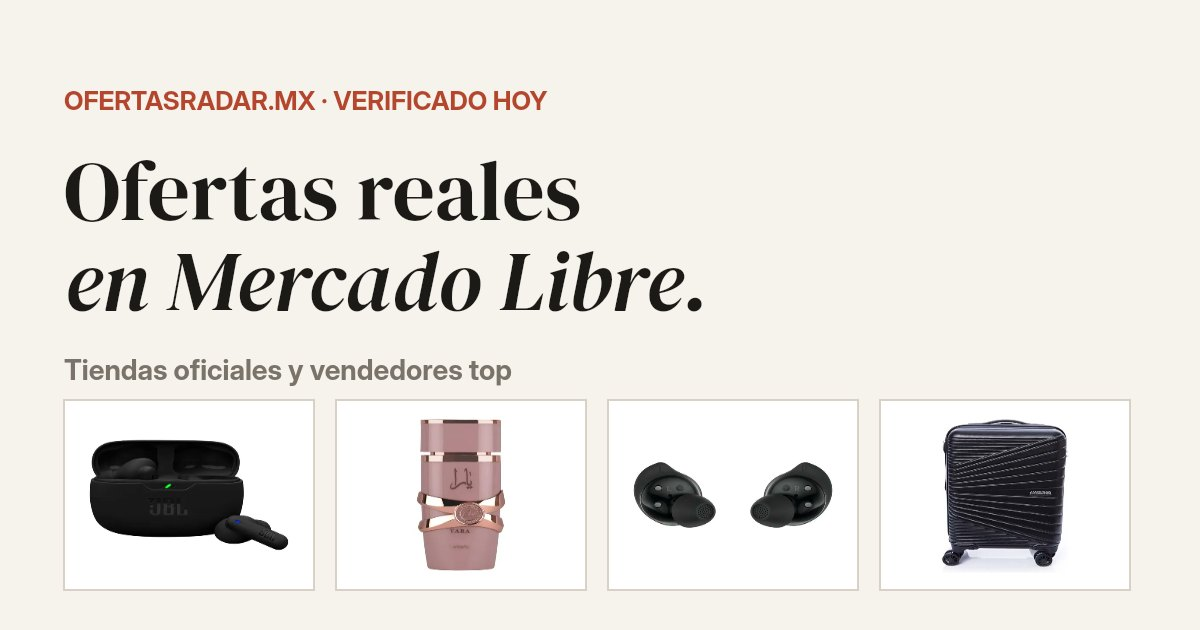
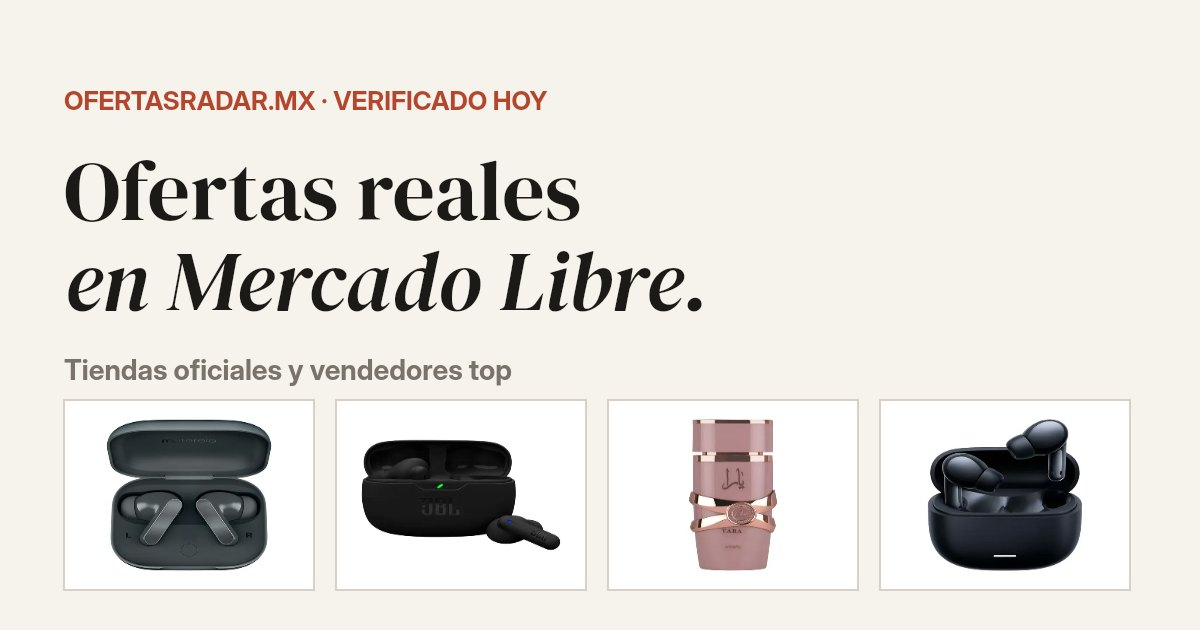
Ofertas al 29 oct 2026 (69 ofertas)

diff --git a/index.html b/index.html
@@ -6,7 +6,7 @@
 <title>Ofertas Radar MX · ofertas verificadas en Mercado Libre</title>
 <meta name="description" content="Ofertas reales de Mercado Libre, verificadas el 29 oct 2026: tiendas oficiales y vendedores top en belleza, hogar y tech.">
 <meta property="og:title" content="Ofertas Radar MX · ofertas verificadas en Mercado Libre">
-<meta property="og:description" content="Ofertas de Mercado Libre verificadas el 29 oct 2026. Hasta -66%.">
+<meta property="og:description" content="Ofertas de Mercado Libre verificadas el 29 oct 2026. Hasta -69%.">
 <meta property="og:image" content="https://fabiannabi.github.io/ofertasradar/og.jpg">
 <meta property="og:url" content="https://fabiannabi.github.io/ofertasradar/">
 <meta property="og:type" content="website">
@@ -153,13 +153,13 @@ footer a { font-weight: 700; color: var(--tinta); }
   <div class="hero">
     <div>
       <p class="vivo"><i></i>Verificado el 29 oct 2026</p>
-      <h1><span class="hasta">Hasta</span><span class="num">-66<small>%</small></span>en marcas que <em>ya conoces.</em></h1>
+      <h1><span class="hasta">Hasta</span><span class="num">-69<small>%</small></span>en marcas que <em>ya conoces.</em></h1>
       <p class="sub">Ofertas de Mercado Libre revisadas a mano, de tiendas oficiales y vendedores top.</p>
       <ul class="garantias"><li>Tiendas oficiales</li><li>Precio del día</li><li>Compra protegida de Mercado Libre</li></ul>
       <a class="ver" href="#megas">Ver las ofertas ↓</a>
     </div>
     <div class="radar"><button type="button" class="blip" style="left:72%;top:26%" aria-label="Ver una oferta al azar"></button><button type="button" class="blip b2" style="left:24%;top:64%" aria-label="Ver una oferta al azar"></button><button type="button" class="blip b3" style="left:80%;top:70%" aria-label="Ver una oferta al azar"></button><button type="button" class="blip b4" style="left:34%;top:20%" aria-label="Ver una oferta al azar"></button><p class="pista">Toca un punto: oferta al azar</p><div class="centro" aria-hidden="true"><img src="logo.png" alt="" width="192" height="192"></div></div>
-    <div class="cinta" aria-hidden="true"><div><span>Guess</span><span>Casio</span><span>Fossil</span><span>Ray-Ban</span><span>Samsonite</span><span>American Tourister</span><span>Motorola</span><span>Ninja</span><span>Dior</span><span>Carolina Herrera</span><span>Rabanne</span><span>Jean Paul Gaultier</span><span>Dolce &amp; Gabbana</span><span>Lattafa</span><span>Sony</span><span>Samsung</span><span>JBL</span><span>Soundcore</span><span>Huawei</span><span>Amazfit</span><span>KitchenAid</span><span>Shark</span><span>BaBylissPRO</span><span>Remington</span><span>Conair</span><span>Revlon</span><span>Homedics</span><span>Xiaomi</span><span>CIICII</span><span>Eufy</span><span>Oral-B</span><span>Dove</span><span>Jane Austen</span><span>Alianza</span><span>EMU</span><span>Debolsillo</span><span>Beauty Creations</span><span>Orión</span><span>Guess</span><span>Casio</span><span>Fossil</span><span>Ray-Ban</span><span>Samsonite</span><span>American Tourister</span><span>Motorola</span><span>Ninja</span><span>Dior</span><span>Carolina Herrera</span><span>Rabanne</span><span>Jean Paul Gaultier</span><span>Dolce &amp; Gabbana</span><span>Lattafa</span><span>Sony</span><span>Samsung</span><span>JBL</span><span>Soundcore</span><span>Huawei</span><span>Amazfit</span><span>KitchenAid</span><span>Shark</span><span>BaBylissPRO</span><span>Remington</span><span>Conair</span><span>Revlon</span><span>Homedics</span><span>Xiaomi</span><span>CIICII</span><span>Eufy</span><span>Oral-B</span><span>Dove</span><span>Jane Austen</span><span>Alianza</span><span>EMU</span><span>Debolsillo</span><span>Beauty Creations</span><span>Orión</span></div></div>
+    <div class="cinta" aria-hidden="true"><div><span>Guess</span><span>Casio</span><span>Fossil</span><span>Ray-Ban</span><span>Samsonite</span><span>American Tourister</span><span>Motorola</span><span>Ninja</span><span>JBL</span><span>Nothing</span><span>Xiaomi</span><span>Sony</span><span>Dior</span><span>Carolina Herrera</span><span>Rabanne</span><span>Jean Paul Gaultier</span><span>Dolce &amp; Gabbana</span><span>Lattafa</span><span>Samsung</span><span>Soundcore</span><span>Huawei</span><span>Amazfit</span><span>KitchenAid</span><span>Shark</span><span>BaBylissPRO</span><span>Remington</span><span>Conair</span><span>Revlon</span><span>Homedics</span><span>CIICII</span><span>Eufy</span><span>Oral-B</span><span>Dove</span><span>Jane Austen</span><span>Alianza</span><span>EMU</span><span>Debolsillo</span><span>Beauty Creations</span><span>Orión</span><span>Guess</span><span>Casio</span><span>Fossil</span><span>Ray-Ban</span><span>Samsonite</span><span>American Tourister</span><span>Motorola</span><span>Ninja</span><span>JBL</span><span>Nothing</span><span>Xiaomi</span><span>Sony</span><span>Dior</span><span>Carolina Herrera</span><span>Rabanne</span><span>Jean Paul Gaultier</span><span>Dolce &amp; Gabbana</span><span>Lattafa</span><span>Samsung</span><span>Soundcore</span><span>Huawei</span><span>Amazfit</span><span>KitchenAid</span><span>Shark</span><span>BaBylissPRO</span><span>Remington</span><span>Conair</span><span>Revlon</span><span>Homedics</span><span>CIICII</span><span>Eufy</span><span>Oral-B</span><span>Dove</span><span>Jane Austen</span><span>Alianza</span><span>EMU</span><span>Debolsillo</span><span>Beauty Creations</span><span>Orión</span></div></div>
   </div>
   <a class="canal" href="https://whatsapp.com/channel/0029VbDg7woLtOjGkAVMZi3C" target="_blank" rel="noopener">
     <svg viewBox="0 0 32 32" aria-hidden="true"><circle cx="16" cy="16" r="16" fill="#25D366"/><path fill="#fff" d="M16 7.2a8.7 8.7 0 0 0-7.5 13.2L7.3 25l4.7-1.2A8.7 8.7 0 1 0 16 7.2Zm0 15.9c-1.3 0-2.6-.4-3.7-1l-.3-.2-2.8.7.8-2.7-.2-.3a7.2 7.2 0 1 1 6.2 3.5Zm4-5.4c-.2-.1-1.3-.6-1.5-.7-.2-.1-.3-.1-.5.1l-.7.9c-.1.1-.3.2-.5.1a5.9 5.9 0 0 1-2.9-2.6c-.2-.4.2-.4.6-1.2.1-.1 0-.3 0-.4l-.7-1.6c-.2-.4-.4-.4-.5-.4h-.4a.8.8 0 0 0-.6.3 2.5 2.5 0 0 0-.8 1.9c0 1.1.8 2.2.9 2.3.1.2 1.6 2.4 3.9 3.4 1.4.6 2 .7 2.7.6.4-.1 1.3-.5 1.5-1.1.2-.5.2-1 .1-1.1l-.4-.2Z"/></svg>
@@ -363,6 +363,72 @@ footer a { font-weight: 700; color: var(--tinta); }
     <p class="precio"><b>$1,719</b><s>$4,299</s></p>
     <p class="meta">★ 4.8 · +100 vendidos</p>
     <a class="btn" href="https://meli.la/1Rwakx3" target="_blank" rel="sponsored noopener">Ver oferta →</a>
+    <p class="pie">Precio al 29 oct · puede cambiar</p>
+  </div>
+</article>
+<article class="card" data-cat="tech">
+  <a class="ph" href="https://meli.la/2vdNZw9" target="_blank" rel="sponsored noopener"><img src="img/jbl-tune-770nc.jpg" alt="Audífonos de diadema JBL Tune 770NC Bluetooth blanco" loading="lazy" width="480" height="480"><span class="tag">-51%</span></a>
+  <div class="info">
+    <p class="marca">JBL <span class="of">✓ Oficial</span></p>
+    <h3>Audífonos de diadema JBL Tune 770NC Bluetooth blanco</h3>
+    <p class="precio"><b>$919</b><s>$1,876</s></p>
+    <p class="meta">★ 4.8 · +1,000 vendidos</p>
+    <a class="btn" href="https://meli.la/2vdNZw9" target="_blank" rel="sponsored noopener">Ver oferta →</a>
+    <p class="pie">Precio al 29 oct · puede cambiar</p>
+  </div>
+</article>
+<article class="card" data-cat="tech">
+  <a class="ph" href="https://meli.la/32UQgkr" target="_blank" rel="sponsored noopener"><img src="img/moto-buds-bass.jpg" alt="Audífonos Moto Buds Bass con cancelación de ruido negro" loading="lazy" width="480" height="480"><span class="tag">-69%</span></a>
+  <div class="info">
+    <p class="marca">Motorola <span class="of">✓ Oficial</span></p>
+    <h3>Audífonos Moto Buds Bass con cancelación de ruido negro</h3>
+    <p class="precio"><b>$619</b><s>$1,999</s></p>
+    <p class="meta">★ 4.9 · +5 mil vendidos</p>
+    <a class="btn" href="https://meli.la/32UQgkr" target="_blank" rel="sponsored noopener">Ver oferta →</a>
+    <p class="pie">Precio al 29 oct · puede cambiar</p>
+  </div>
+</article>
+<article class="card" data-cat="tech">
+  <a class="ph" href="https://meli.la/1Y8hN8g" target="_blank" rel="sponsored noopener"><img src="img/nothing-ear-a.jpg" alt="Audífonos inalámbricos Nothing Ear (a) negro" loading="lazy" width="480" height="480"><span class="tag">-51%</span></a>
+  <div class="info">
+    <p class="marca">Nothing <span class="of">✓ Oficial</span></p>
+    <h3>Audífonos inalámbricos Nothing Ear (a) negro</h3>
+    <p class="precio"><b>$1,322</b><s>$2,751</s></p>
+    <p class="meta">★ 4.8 · +10 mil vendidos</p>
+    <a class="btn" href="https://meli.la/1Y8hN8g" target="_blank" rel="sponsored noopener">Ver oferta →</a>
+    <p class="pie">Precio al 29 oct · puede cambiar</p>
+  </div>
+</article>
+<article class="card" data-cat="tech">
+  <a class="ph" href="https://meli.la/2ttFyGZ" target="_blank" rel="sponsored noopener"><img src="img/redmi-buds8-lite.jpg" alt="Audífonos inalámbricos Xiaomi Redmi Buds 8 Lite" loading="lazy" width="480" height="480"><span class="tag">-63%</span></a>
+  <div class="info">
+    <p class="marca">Xiaomi <span class="of">✓ Oficial</span></p>
+    <h3>Audífonos inalámbricos Xiaomi Redmi Buds 8 Lite</h3>
+    <p class="precio"><b>$368</b><s>$999</s></p>
+    <p class="meta">★ 4.8 · +10 mil vendidos</p>
+    <a class="btn" href="https://meli.la/2ttFyGZ" target="_blank" rel="sponsored noopener">Ver oferta →</a>
+    <p class="pie">Precio al 29 oct · puede cambiar</p>
+  </div>
+</article>
+<article class="card" data-cat="tech">
+  <a class="ph" href="https://meli.la/1eehXPt" target="_blank" rel="sponsored noopener"><img src="img/redmi-buds8-pro.jpg" alt="Audífonos inalámbricos Xiaomi Redmi Buds 8 Pro blanco" loading="lazy" width="480" height="480"><span class="tag">-42%</span></a>
+  <div class="info">
+    <p class="marca">Xiaomi <span class="of">✓ Oficial</span></p>
+    <h3>Audífonos inalámbricos Xiaomi Redmi Buds 8 Pro blanco</h3>
+    <p class="precio"><b>$1,153</b><s>$1,999</s></p>
+    <p class="meta">★ 4.8 · +1,000 vendidos</p>
+    <a class="btn" href="https://meli.la/1eehXPt" target="_blank" rel="sponsored noopener">Ver oferta →</a>
+    <p class="pie">Precio al 29 oct · puede cambiar</p>
+  </div>
+</article>
+<article class="card" data-cat="tech">
+  <a class="ph" href="https://meli.la/2vW4PNE" target="_blank" rel="sponsored noopener"><img src="img/sony-wf-c510.jpg" alt="Audífonos Sony True Wireless WF-C510 negro" loading="lazy" width="480" height="480"><span class="tag">-24%</span></a>
+  <div class="info">
+    <p class="marca">Sony <span class="of">✓ Oficial</span></p>
+    <h3>Audífonos Sony True Wireless WF-C510 negro</h3>
+    <p class="precio"><b>$949</b><s>$1,265</s></p>
+    <p class="meta">★ 4.8 · +10 mil vendidos</p>
+    <a class="btn" href="https://meli.la/2vW4PNE" target="_blank" rel="sponsored noopener">Ver oferta →</a>
     <p class="pie">Precio al 29 oct · puede cambiar</p>
   </div>
 </article>
